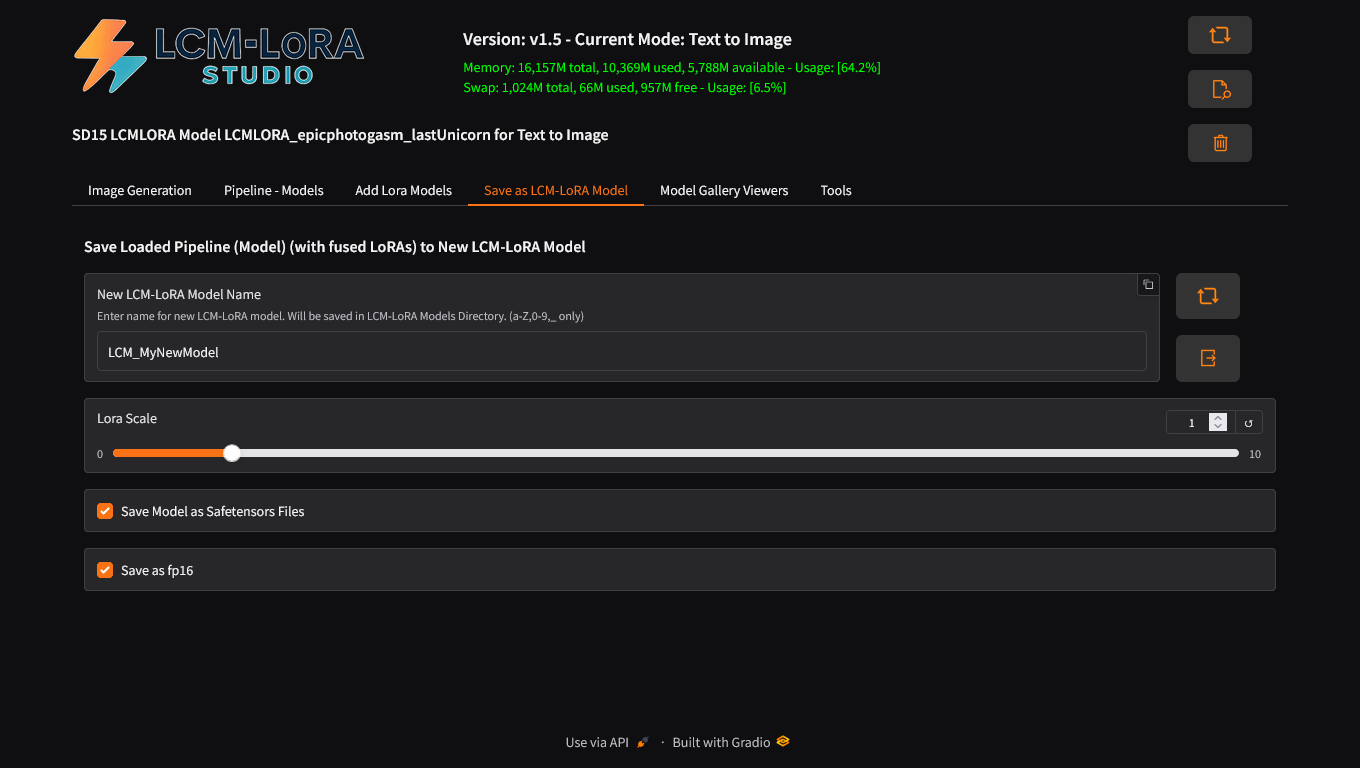
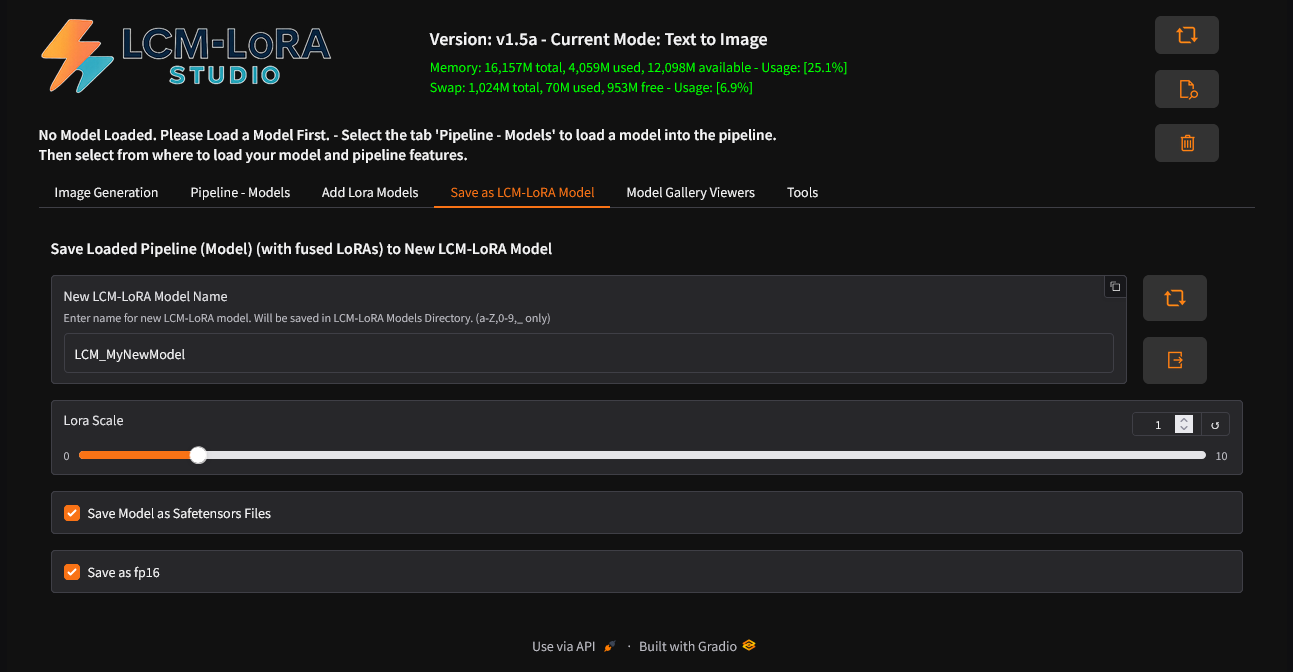
Add files via upload
V1.5a

diff --git a/help/readme.html b/help/readme.html
@@ -45,7 +45,11 @@
 <p><img src="lcm-lora-studio-app-header.png" alt="LCM-LoRA Studio">  </p>
 <p><a id="introduction"></a></p>
 <h2 id="introduction">Introduction</h2>
-<p>UPDATE: 05-09-2026 Runs on Raspberry Pi 5 OS with 8 GB RAM !!. See below for details. (MUST USE the 'lite' version for 8GB PI5)</p><p><em><strong>Create a high-quality image, in an average of ONLY 4 STEPS, using just a low-end CPU or a Raspberry Pi 5.</strong></em>  </p>
+
+<p>UPDATE: 05-09-2026 Runs on Raspberry Pi 5 OS with 8 GB RAM !!. See below for details. (MUST USE the 'lite' version for 8GB PI5)</p>
+<p>UPDATE: 05-15-2026 Added: Save LCM-LoRA Models as Single File Safetensors Models (SD/SDXL), Load separate Text Encoder for Safetensors Models (SD Only)</p>
+
+<p><em><strong>Create a high-quality image, in an average of ONLY 4 STEPS, using just a low-end CPU or a Raspberry Pi 5.</strong></em>  </p>
 <p>At it&#39;s basic core it generates images using common 
 StableDiffusion techniques. However add an LCM-LoRA to the base model and this enables a 4 Step inference 
 to generate images. This shorter number of steps allows us to generate images faster than the nomal 20-50 
@@ -154,8 +158,10 @@ and Save that model as well.<br>See the block diagram below.</p>
 <li>Load SD and SDXL Huggingface Models (You can grab just the files needed, and it will load the model directly into the &#39;Pipeline&#39;, or the &#39;whole repository&#39;)</li>
 <li>Load SD and SDXL Safetensors Models - Single File Safetensors Models - From Huggingface, Civitai etc...</li>
 <li>Load SD and SDXL LoRA Models - Single File Safetensors Models - From Huggingface, Civitai etc...</li>
-<li>Load a seperate text encoder than the loaded model uses. (LCM-LoRA, SD)</li>
+<li>Load a seperate text encoder than the loaded model uses. (LCM-LoRA and Safetensors, SD Only)</li>
 <li>Use &#39;Reference&#39; Models and/or &#39;Original Config&#39; Files when Loading Safetensors Model files to guide loading. (See settings)</li>
+<li>Save LCM-LoRA Models to (Single File) Safetensors Models. (Compatible with A1111 if using an LCM Scheduler)</li>
+<li>Turn On/Off LCM Scheduler at key points.</li>
 </ul>
 <p><strong>LoRA</strong></p>
 <ul>
@@ -304,9 +310,19 @@ sudo apt-get install libgl1-mesa-dev
 
 <p>Now, you will need to finish configuring your Raspberry Pi 5 via &#39;raspi-config&#39;.</p>
 
-<p>Use &#39;sudo raspi-config&#39; to configure your Pi5 to, go to the console on boot, and then, to NOT auto login.</p>
+<p>In the terminal type the following:</p>
 
-<p>Then, Turn OFF the Administrator password needed for &#39;sudo&#39;.</p>
+<pre><code class="language-shell">sudo raspi-config
+</code></pre>
+<br>
+
+<p>Now configure your Pi5 to:</p>
+
+<ul>
+<li>Go to the console on boot</li>
+<li>NOT auto login.</li>
+<li>Turn OFF the Administrator password needed for &#39;sudo&#39;. (<i>We'll be able to remote boot and shutdown from the GUI</i>)</li>
+</ul>
 
 <p>Exit raspi-config.</p>
 

diff --git a/help/versions.html b/help/versions.html
@@ -32,7 +32,28 @@
 <pre>
 ## LCM-LoRA-Studio Versions
 
-Current Version: 1.5
+Current Version: 1.5a
+
+----
+
+### Version History
+
+LCM-LoRA-Studio v1.5a
+
+Added - Save LCM-LoRA Models as Single File Safetensors Models (SD/SDXL).
+Added - Load separate Text Encoder for Safetensors Models (SD Only).
+Added - Turn On/Off LCM Scheduler at key points.
+        This gives the ability to Load a Single File Safetensors Model and Save as LCM-LoRA Model 
+		Fiddle with it...  Re-Save.
+		Then save back out to a Single File Safetensors Model again.
+		
+		Note: Tested in A1111, using an LCM Scheduler.
+
+
+FIX: Load separate Text Encoder for Safetensors Model fixes errors 
+     caused by 'missing text_encoder' in some Safetensors models.
+	 Must use a saved LCM-LoRA model.
+	 SD Only Models.
 
 ----
 

diff --git a/help/screenshots.html b/help/screenshots.html
@@ -57,6 +57,7 @@ Python, Libraries, Models, App, Everything running from a 2 TB - USB 3.0 SSD.
 <a href='Pipeline_Models_Huggingface_Local_Cached_Model_List.png'>Pipeline_Models_Huggingface_Local_Cached_Model_List</a></br>
 <a href='Pipeline_Models_Huggingface_Model.png'>Pipeline_Models_Huggingface_Model</a></br>
 <a href='Pipeline_Models_Safetensors_Model_List.png'>Pipeline_Models_Safetensors_Model_List</a></br>
+<a href='Pipeline_Models_Convert_LCM_LoRA_Model_to_Safetensors.png'>Pipeline_Models_Convert_LCM_LoRA_Model_to_Safetensors</a></br>
 </br>
 <a href='Add_Lora_Models.png'>Add_Lora_Models</a></br>
 </br>
